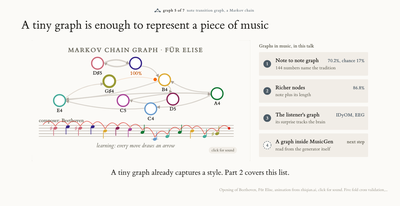
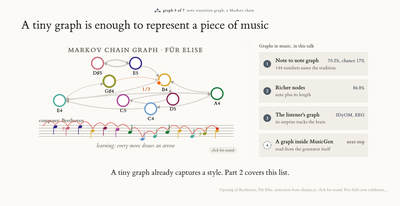
Slide 16: written as a subtraction, after minus before equals the delta graph
Claude-Session: https://claude.ai/code/session_01CwywQbHke1EKdwXqbCrAvs

Changed region(s): [[0.09, 0.5825, 0.6, 0.699], [0.36, 0.3786, 0.42, 0.4369], [0.33, 0.3204, 0.36, 0.3786]]

diff --git a/graph-inside/2026-11-19-cs-colloquium/index.html b/graph-inside/2026-11-19-cs-colloquium/index.html
@@ -1054,7 +1054,7 @@ else if(m==1){var d1=(i==FI.length-1)?2600:1500;if(now-last>d1){i=(i+1)%FI.lengt
 <section data-ch="1">
 <section data-ch="1">
   <h2>What is a delta graph?</h2><span class="graphtag"><svg viewBox="0 0 22 14"><line x1="3" y1="11" x2="11" y2="3" stroke="currentColor" stroke-width="1.3"/><line x1="11" y1="3" x2="19" y2="11" stroke="currentColor" stroke-width="1.3"/><line x1="3" y1="11" x2="19" y2="11" stroke="currentColor" stroke-width="1.3"/><circle cx="3" cy="11" r="2.4" fill="currentColor"/><circle cx="11" cy="3" r="2.4" fill="currentColor"/><circle cx="19" cy="11" r="2.4" fill="currentColor"/></svg><b>graph 4 of 7</b> delta graph, how the inside rewired</span><span class="status published">Published</span>
-  <svg viewBox="0 0 1180 462" style="width:100%;max-width:1160px;height:auto;max-height:462px;display:block;margin:0 auto"><defs><marker id="dga" viewBox="0 0 10 10" refX="8" refY="5" markerWidth="6" markerHeight="6" orient="auto-start-reverse"><path d="M0,0 L10,5 L0,10 z" fill="#5F5D50"/></marker><marker id="dgo" viewBox="0 0 10 10" refX="8" refY="5" markerWidth="6" markerHeight="6" orient="auto-start-reverse"><path d="M0,0 L10,5 L0,10 z" fill="#F76902"/></marker><marker id="dgt" viewBox="0 0 10 10" refX="8" refY="5" markerWidth="6" markerHeight="6" orient="auto-start-reverse"><path d="M0,0 L10,5 L0,10 z" fill="#4C5B66"/></marker><marker id="dgk" viewBox="0 0 10 10" refX="8" refY="5" markerWidth="6" markerHeight="6" orient="auto-start-reverse"><path d="M0,0 L10,5 L0,10 z" fill="#1F1E1B"/></marker><marker id="dgg" viewBox="0 0 10 10" refX="8" refY="5" markerWidth="6" markerHeight="6" orient="auto-start-reverse"><path d="M0,0 L10,5 L0,10 z" fill="#ACA39A"/></marker><radialGradient id="dggl"><stop offset="0" stop-color="#F76902" stop-opacity=".5"/><stop offset="1" stop-color="#F76902" stop-opacity="0"/></radialGradient><radialGradient id="dggt"><stop offset="0" stop-color="#4C5B66" stop-opacity=".45"/><stop offset="1" stop-color="#4C5B66" stop-opacity="0"/></radialGradient></defs><defs><marker id="axk" viewBox="0 0 10 10" refX="8" refY="5" markerWidth="5" markerHeight="5" orient="auto"><path d="M0,0 L10,5 L0,10 z" fill="#1F1E1B"/></marker></defs><text x="590" y="22" font-size="17.5" font-weight="400" fill="#1F1E1B" text-anchor="middle" data-keep="1">Same probe questions, before and after the edit. A node is a block (attention or MLP of a layer).</text><text x="590" y="44" font-size="17.5" font-weight="400" fill="#5F5D50" text-anchor="middle" data-keep="1">An edge: two blocks that rise and fall together across the questions, other blocks removed (partial correlation).</text><text x="128" y="259" font-size="15" font-weight="400" fill="#5F5D50" text-anchor="end" >layer 1</text><text x="128" y="223" font-size="15" font-weight="400" fill="#5F5D50" text-anchor="end" >layer 2</text><text x="128" y="187" font-size="15" font-weight="400" fill="#5F5D50" text-anchor="end" >layer 3</text><text x="128" y="151" font-size="15" font-weight="400" fill="#5F5D50" text-anchor="end" >layer 4</text><text x="128" y="115" font-size="15" font-weight="400" fill="#5F5D50" text-anchor="end" >layer 5</text><text x="128" y="79" font-size="15" font-weight="400" fill="#5F5D50" text-anchor="end" >layer 6</text><path d="M174,254 L266,254" stroke="#8F887E" stroke-width="1.8" fill="none" /><path d="M174,218 L266,218" stroke="#8F887E" stroke-width="1.8" fill="none" /><path d="M174,182 L266,182" stroke="#8F887E" stroke-width="1.8" fill="none" /><path d="M174,146 L266,146" stroke="#8F887E" stroke-width="1.8" fill="none" /><path d="M174,110 L266,110" stroke="#8F887E" stroke-width="1.8" fill="none" /><path d="M174,74 L266,74" stroke="#8F887E" stroke-width="1.8" fill="none" /><path d="M266,254 L174,218" stroke="#8F887E" stroke-width="1.8" fill="none" /><path d="M266,218 L174,182" stroke="#8F887E" stroke-width="1.8" fill="none" /><path d="M266,182 L174,146" stroke="#8F887E" stroke-width="1.8" fill="none" /><path d="M266,146 L174,110" stroke="#8F887E" stroke-width="1.8" fill="none" /><path d="M266,110 L174,74" stroke="#8F887E" stroke-width="1.8" fill="none" /><path d="M174,254 L174,218" stroke="#8F887E" stroke-width="1.8" fill="none" /><path d="M174,182 L174,146" stroke="#8F887E" stroke-width="1.8" fill="none" /><path d="M174,110 L174,74" stroke="#8F887E" stroke-width="1.8" fill="none" /><path d="M266,254 L266,218" stroke="#8F887E" stroke-width="1.8" fill="none" /><path d="M266,110 L266,74" stroke="#8F887E" stroke-width="1.8" fill="none" /><path d="M174,254 L266,182" stroke="#8F887E" stroke-width="1.8" fill="none" /><path d="M266,218 L174,146" stroke="#8F887E" stroke-width="1.8" fill="none" /><path d="M174,182 L266,110" stroke="#8F887E" stroke-width="1.8" fill="none" /><path d="M266,146 L174,74" stroke="#8F887E" stroke-width="1.8" fill="none" /><path d="M174,218 L266,110" stroke="#8F887E" stroke-width="1.8" fill="none" /><path d="M266,254 L174,146" stroke="#8F887E" stroke-width="1.8" fill="none" /><path d="M266,218 L174,182" stroke="#8F887E" stroke-width="1.8" fill="none" /><path d="M266,182 L174,74" stroke="#8F887E" stroke-width="1.8" fill="none" /><circle cx="174" cy="254" r="8" fill="#5F5D50" stroke="none" stroke-width="1.5" /><circle cx="266" cy="254" r="8" fill="#C45200" stroke="none" stroke-width="1.5" /><circle cx="174" cy="218" r="8" fill="#5F5D50" stroke="none" stroke-width="1.5" /><circle cx="266" cy="218" r="8" fill="#C45200" stroke="none" stroke-width="1.5" /><circle cx="174" cy="182" r="8" fill="#5F5D50" stroke="none" stroke-width="1.5" /><circle cx="266" cy="182" r="8" fill="#C45200" stroke="none" stroke-width="1.5" /><circle cx="174" cy="146" r="8" fill="#5F5D50" stroke="none" stroke-width="1.5" /><circle cx="266" cy="146" r="8" fill="#C45200" stroke="none" stroke-width="1.5" /><circle cx="174" cy="110" r="8" fill="#5F5D50" stroke="none" stroke-width="1.5" /><circle cx="266" cy="110" r="8" fill="#C45200" stroke="none" stroke-width="1.5" /><circle cx="174" cy="74" r="8" fill="#5F5D50" stroke="none" stroke-width="1.5" /><circle cx="266" cy="74" r="8" fill="#C45200" stroke="none" stroke-width="1.5" /><text x="220" y="286" font-size="17.5" font-weight="600" fill="#1F1E1B" text-anchor="middle" >before the edit</text><text x="352" y="160" font-size="21" font-weight="400" fill="#5F5D50" text-anchor="middle" >vs</text><path d="M434,254 L526,254" stroke="#8F887E" stroke-width="1.8" fill="none" /><path d="M434,218 L526,218" stroke="#8F887E" stroke-width="1.8" fill="none" /><path d="M434,182 L526,182" stroke="#8F887E" stroke-width="1.8" fill="none" /><path d="M434,146 L526,146" stroke="#8F887E" stroke-width="1.8" fill="none" /><path d="M434,110 L526,110" stroke="#8F887E" stroke-width="1.8" fill="none" /><path d="M434,74 L526,74" stroke="#8F887E" stroke-width="1.8" fill="none" /><path d="M526,254 L434,218" stroke="#8F887E" stroke-width="1.8" fill="none" /><path d="M526,182 L434,146" stroke="#8F887E" stroke-width="1.8" fill="none" /><path d="M526,146 L434,110" stroke="#8F887E" stroke-width="1.8" fill="none" /><path d="M526,110 L434,74" stroke="#8F887E" stroke-width="1.8" fill="none" /><path d="M434,254 L434,218" stroke="#8F887E" stroke-width="1.8" fill="none" /><path d="M434,182 L434,146" stroke="#8F887E" stroke-width="1.8" fill="none" /><path d="M434,110 L434,74" stroke="#8F887E" stroke-width="1.8" fill="none" /><path d="M526,254 L526,218" stroke="#8F887E" stroke-width="1.8" fill="none" /><path d="M526,110 L526,74" stroke="#8F887E" stroke-width="1.8" fill="none" /><path d="M434,254 L526,182" stroke="#8F887E" stroke-width="1.8" fill="none" /><path d="M526,218 L434,146" stroke="#8F887E" stroke-width="1.8" fill="none" /><path d="M434,218 L526,110" stroke="#8F887E" stroke-width="1.8" fill="none" /><path d="M526,254 L434,146" stroke="#8F887E" stroke-width="1.8" fill="none" /><path d="M526,182 L434,74" stroke="#8F887E" stroke-width="1.8" fill="none" /><path d="M434,182 L526,110" stroke="#5F5D50" stroke-width="2.2" fill="none" stroke-dasharray="5 4"/><path d="M526,146 L434,74" stroke="#5F5D50" stroke-width="2.2" fill="none" stroke-dasharray="5 4"/><path d="M526,218 L434,182" stroke="#5F5D50" stroke-width="2.2" fill="none" stroke-dasharray="5 4"/><path d="M526,182 L526,146" stroke="#F76902" stroke-width="2.5" fill="none" /><path d="M526,146 L526,110" stroke="#F76902" stroke-width="2.5" fill="none" /><path d="M434,218 L526,146" stroke="#F76902" stroke-width="2.5" fill="none" /><circle cx="434" cy="254" r="8" fill="#5F5D50" stroke="none" stroke-width="1.5" /><circle cx="526" cy="254" r="8" fill="#C45200" stroke="none" stroke-width="1.5" /><circle cx="434" cy="218" r="8" fill="#5F5D50" stroke="none" stroke-width="1.5" /><circle cx="526" cy="218" r="8" fill="#C45200" stroke="none" stroke-width="1.5" /><circle cx="434" cy="182" r="8" fill="#5F5D50" stroke="none" stroke-width="1.5" /><circle cx="526" cy="182" r="8" fill="#C45200" stroke="none" stroke-width="1.5" /><circle cx="434" cy="146" r="8" fill="#5F5D50" stroke="none" stroke-width="1.5" /><circle cx="526" cy="146" r="8" fill="#C45200" stroke="none" stroke-width="1.5" /><circle cx="434" cy="110" r="8" fill="#5F5D50" stroke="none" stroke-width="1.5" /><circle cx="526" cy="110" r="8" fill="#C45200" stroke="none" stroke-width="1.5" /><circle cx="434" cy="74" r="8" fill="#5F5D50" stroke="none" stroke-width="1.5" /><circle cx="526" cy="74" r="8" fill="#C45200" stroke="none" stroke-width="1.5" /><text x="480" y="286" font-size="17.5" font-weight="600" fill="#1F1E1B" text-anchor="middle" >after the edit</text><text x="612" y="160" font-size="26" font-weight="400" fill="#5F5D50" text-anchor="middle" >=</text><g class="fragment" data-fragment-index="1"><path d="M790,182 L790,146" stroke="#F76902" stroke-width="2.5" fill="none" /><path d="M790,146 L790,110" stroke="#F76902" stroke-width="2.5" fill="none" /><path d="M698,218 L790,146" stroke="#F76902" stroke-width="2.5" fill="none" /><path d="M698,182 L790,110" stroke="#5F5D50" stroke-width="2.2" fill="none" stroke-dasharray="5 4"/><path d="M790,146 L698,74" stroke="#5F5D50" stroke-width="2.2" fill="none" stroke-dasharray="5 4"/><path d="M790,218 L698,182" stroke="#5F5D50" stroke-width="2.2" fill="none" stroke-dasharray="5 4"/><circle cx="698" cy="254" r="8" fill="#5F5D50" stroke="none" stroke-width="1.5" /><circle cx="790" cy="254" r="8" fill="#C45200" stroke="none" stroke-width="1.5" /><circle cx="698" cy="218" r="8" fill="#5F5D50" stroke="none" stroke-width="1.5" /><circle cx="790" cy="218" r="8" fill="#C45200" stroke="none" stroke-width="1.5" /><circle cx="698" cy="182" r="8" fill="#5F5D50" stroke="none" stroke-width="1.5" /><circle cx="790" cy="182" r="8" fill="#C45200" stroke="none" stroke-width="1.5" /><circle cx="698" cy="146" r="8" fill="#5F5D50" stroke="none" stroke-width="1.5" /><circle cx="790" cy="146" r="8" fill="#C45200" stroke="none" stroke-width="1.5" /><circle cx="698" cy="110" r="8" fill="#5F5D50" stroke="none" stroke-width="1.5" /><circle cx="790" cy="110" r="8" fill="#C45200" stroke="none" stroke-width="1.5" /><circle cx="698" cy="74" r="8" fill="#5F5D50" stroke="none" stroke-width="1.5" /><circle cx="790" cy="74" r="8" fill="#C45200" stroke="none" stroke-width="1.5" /><text x="744" y="286" font-size="17.5" font-weight="600" fill="#C45200" text-anchor="middle" >delta graph</text><text x="744" y="304" font-size="15" font-weight="400" fill="#5F5D50" text-anchor="middle" >after minus before</text><path d="M880,96 h34" stroke="#F76902" stroke-width="2.5" fill="none" /><text x="922" y="101" font-size="15.5" font-weight="400" fill="#1F1E1B" text-anchor="start" >stronger after the edit</text><path d="M880,126 h34" stroke="#5F5D50" stroke-width="2.2" fill="none" stroke-dasharray="5 4"/><text x="922" y="131" font-size="15.5" font-weight="400" fill="#1F1E1B" text-anchor="start" >weaker after the edit</text><circle cx="889" cy="160" r="7" fill="#5F5D50" stroke="none" stroke-width="1.5" /><text x="902" y="165" font-size="15.5" font-weight="400" fill="#1F1E1B" text-anchor="start" >attention</text><circle cx="985" cy="160" r="7" fill="#C45200" stroke="none" stroke-width="1.5" /><text x="998" y="165" font-size="15.5" font-weight="400" fill="#1F1E1B" text-anchor="start" >MLP</text></g><g class="fragment" data-fragment-index="2"><rect x="40" y="316" width="530" height="140" rx="4" fill="#F4F1EC" stroke="none" stroke-width="0" /><text x="60" y="342" font-size="18.5" font-weight="600" fill="#1F1E1B" text-anchor="start" >Where, and how much</text><text x="60" y="366" font-size="16" font-weight="400" fill="#5F5D50" text-anchor="start" >change at a block = sum of its edge changes</text><text x="60" y="386" font-size="16" font-weight="400" fill="#5F5D50" text-anchor="start" >total change, which layers, how concentrated</text><rect x="372" y="438.0" width="24" height="8.0" rx="2" fill="#ACA39A" stroke="none" stroke-width="0" /><rect x="402" y="430.0" width="24" height="16.0" rx="2" fill="#ACA39A" stroke="none" stroke-width="0" /><rect x="432" y="398.0" width="24" height="48.0" rx="2" fill="#ACA39A" stroke="none" stroke-width="0" /><rect x="462" y="391.6" width="24" height="54.400000000000006" rx="2" fill="#C45200" stroke="none" stroke-width="0" /><rect x="492" y="420.4" width="24" height="25.6" rx="2" fill="#ACA39A" stroke="none" stroke-width="0" /><rect x="522" y="439.6" width="24" height="6.4" rx="2" fill="#ACA39A" stroke="none" stroke-width="0" /><text x="456" y="342" font-size="15" font-weight="400" fill="#5F5D50" text-anchor="middle" >change per layer</text><rect x="610" y="316" width="530" height="140" rx="4" fill="#F4F1EC" stroke="none" stroke-width="0" /><text x="630" y="342" font-size="18.5" font-weight="600" fill="#1F1E1B" text-anchor="start" >Smooth, or sharp (spectral)</text><text x="630" y="366" font-size="16" font-weight="400" fill="#5F5D50" text-anchor="start" >the before graph gives the shape: its Laplacian</text><text x="630" y="386" font-size="16" font-weight="400" fill="#5F5D50" text-anchor="start" >project the change onto it (a graph Fourier transform)</text><path d="M640,414 h120" stroke="#8F887E" stroke-width="1.6" fill="none" /><circle cx="640" cy="414" r="8" fill="rgba(196,82,0,0.15)" stroke="none" stroke-width="1.5" stroke="#8F887E" stroke-width="1"/><circle cx="670" cy="414" r="8" fill="rgba(196,82,0,0.35)" stroke="none" stroke-width="1.5" stroke="#8F887E" stroke-width="1"/><circle cx="700" cy="414" r="8" fill="rgba(196,82,0,0.55)" stroke="none" stroke-width="1.5" stroke="#8F887E" stroke-width="1"/><circle cx="730" cy="414" r="8" fill="rgba(196,82,0,0.75)" stroke="none" stroke-width="1.5" stroke="#8F887E" stroke-width="1"/><circle cx="760" cy="414" r="8" fill="rgba(196,82,0,0.95)" stroke="none" stroke-width="1.5" stroke="#8F887E" stroke-width="1"/><text x="800" y="419" font-size="15.5" font-weight="400" fill="#1F1E1B" text-anchor="start" >low: change spreads along the wiring</text><path d="M640,442 h120" stroke="#8F887E" stroke-width="1.6" fill="none" /><circle cx="640" cy="442" r="8" fill="rgba(196,82,0,0.95)" stroke="none" stroke-width="1.5" stroke="#8F887E" stroke-width="1"/><circle cx="670" cy="442" r="8" fill="rgba(196,82,0,0.1)" stroke="none" stroke-width="1.5" stroke="#8F887E" stroke-width="1"/><circle cx="700" cy="442" r="8" fill="rgba(196,82,0,0.95)" stroke="none" stroke-width="1.5" stroke="#8F887E" stroke-width="1"/><circle cx="730" cy="442" r="8" fill="rgba(196,82,0,0.1)" stroke="none" stroke-width="1.5" stroke="#8F887E" stroke-width="1"/><circle cx="760" cy="442" r="8" fill="rgba(196,82,0,0.95)" stroke="none" stroke-width="1.5" stroke="#8F887E" stroke-width="1"/><text x="800" y="447" font-size="15.5" font-weight="400" fill="#1F1E1B" text-anchor="start" >high: neighbors disagree, a sharp patch</text></g></svg>
+  <svg viewBox="0 0 1180 462" style="width:100%;max-width:1160px;height:auto;max-height:462px;display:block;margin:0 auto"><defs><marker id="dga" viewBox="0 0 10 10" refX="8" refY="5" markerWidth="6" markerHeight="6" orient="auto-start-reverse"><path d="M0,0 L10,5 L0,10 z" fill="#5F5D50"/></marker><marker id="dgo" viewBox="0 0 10 10" refX="8" refY="5" markerWidth="6" markerHeight="6" orient="auto-start-reverse"><path d="M0,0 L10,5 L0,10 z" fill="#F76902"/></marker><marker id="dgt" viewBox="0 0 10 10" refX="8" refY="5" markerWidth="6" markerHeight="6" orient="auto-start-reverse"><path d="M0,0 L10,5 L0,10 z" fill="#4C5B66"/></marker><marker id="dgk" viewBox="0 0 10 10" refX="8" refY="5" markerWidth="6" markerHeight="6" orient="auto-start-reverse"><path d="M0,0 L10,5 L0,10 z" fill="#1F1E1B"/></marker><marker id="dgg" viewBox="0 0 10 10" refX="8" refY="5" markerWidth="6" markerHeight="6" orient="auto-start-reverse"><path d="M0,0 L10,5 L0,10 z" fill="#ACA39A"/></marker><radialGradient id="dggl"><stop offset="0" stop-color="#F76902" stop-opacity=".5"/><stop offset="1" stop-color="#F76902" stop-opacity="0"/></radialGradient><radialGradient id="dggt"><stop offset="0" stop-color="#4C5B66" stop-opacity=".45"/><stop offset="1" stop-color="#4C5B66" stop-opacity="0"/></radialGradient></defs><defs><marker id="axk" viewBox="0 0 10 10" refX="8" refY="5" markerWidth="5" markerHeight="5" orient="auto"><path d="M0,0 L10,5 L0,10 z" fill="#1F1E1B"/></marker></defs><text x="590" y="22" font-size="17.5" font-weight="400" fill="#1F1E1B" text-anchor="middle" data-keep="1">Same probe questions, before and after the edit. A node is a block (attention or MLP of a layer).</text><text x="590" y="44" font-size="17.5" font-weight="400" fill="#5F5D50" text-anchor="middle" data-keep="1">An edge: two blocks that rise and fall together across the questions, other blocks removed (partial correlation).</text><text x="128" y="259" font-size="15" font-weight="400" fill="#5F5D50" text-anchor="end" >layer 1</text><text x="128" y="223" font-size="15" font-weight="400" fill="#5F5D50" text-anchor="end" >layer 2</text><text x="128" y="187" font-size="15" font-weight="400" fill="#5F5D50" text-anchor="end" >layer 3</text><text x="128" y="151" font-size="15" font-weight="400" fill="#5F5D50" text-anchor="end" >layer 4</text><text x="128" y="115" font-size="15" font-weight="400" fill="#5F5D50" text-anchor="end" >layer 5</text><text x="128" y="79" font-size="15" font-weight="400" fill="#5F5D50" text-anchor="end" >layer 6</text><path d="M174,254 L266,254" stroke="#8F887E" stroke-width="1.8" fill="none" /><path d="M174,218 L266,218" stroke="#8F887E" stroke-width="1.8" fill="none" /><path d="M174,182 L266,182" stroke="#8F887E" stroke-width="1.8" fill="none" /><path d="M174,146 L266,146" stroke="#8F887E" stroke-width="1.8" fill="none" /><path d="M174,110 L266,110" stroke="#8F887E" stroke-width="1.8" fill="none" /><path d="M174,74 L266,74" stroke="#8F887E" stroke-width="1.8" fill="none" /><path d="M266,254 L174,218" stroke="#8F887E" stroke-width="1.8" fill="none" /><path d="M266,182 L174,146" stroke="#8F887E" stroke-width="1.8" fill="none" /><path d="M266,146 L174,110" stroke="#8F887E" stroke-width="1.8" fill="none" /><path d="M266,110 L174,74" stroke="#8F887E" stroke-width="1.8" fill="none" /><path d="M174,254 L174,218" stroke="#8F887E" stroke-width="1.8" fill="none" /><path d="M174,182 L174,146" stroke="#8F887E" stroke-width="1.8" fill="none" /><path d="M174,110 L174,74" stroke="#8F887E" stroke-width="1.8" fill="none" /><path d="M266,254 L266,218" stroke="#8F887E" stroke-width="1.8" fill="none" /><path d="M266,110 L266,74" stroke="#8F887E" stroke-width="1.8" fill="none" /><path d="M174,254 L266,182" stroke="#8F887E" stroke-width="1.8" fill="none" /><path d="M266,218 L174,146" stroke="#8F887E" stroke-width="1.8" fill="none" /><path d="M174,218 L266,110" stroke="#8F887E" stroke-width="1.8" fill="none" /><path d="M266,254 L174,146" stroke="#8F887E" stroke-width="1.8" fill="none" /><path d="M266,182 L174,74" stroke="#8F887E" stroke-width="1.8" fill="none" /><path d="M174,182 L266,110" stroke="#5F5D50" stroke-width="2.2" fill="none" stroke-dasharray="5 4"/><path d="M266,146 L174,74" stroke="#5F5D50" stroke-width="2.2" fill="none" stroke-dasharray="5 4"/><path d="M266,218 L174,182" stroke="#5F5D50" stroke-width="2.2" fill="none" stroke-dasharray="5 4"/><path d="M266,182 L266,146" stroke="#F76902" stroke-width="2.5" fill="none" /><path d="M266,146 L266,110" stroke="#F76902" stroke-width="2.5" fill="none" /><path d="M174,218 L266,146" stroke="#F76902" stroke-width="2.5" fill="none" /><circle cx="174" cy="254" r="8" fill="#5F5D50" stroke="none" stroke-width="1.5" /><circle cx="266" cy="254" r="8" fill="#C45200" stroke="none" stroke-width="1.5" /><circle cx="174" cy="218" r="8" fill="#5F5D50" stroke="none" stroke-width="1.5" /><circle cx="266" cy="218" r="8" fill="#C45200" stroke="none" stroke-width="1.5" /><circle cx="174" cy="182" r="8" fill="#5F5D50" stroke="none" stroke-width="1.5" /><circle cx="266" cy="182" r="8" fill="#C45200" stroke="none" stroke-width="1.5" /><circle cx="174" cy="146" r="8" fill="#5F5D50" stroke="none" stroke-width="1.5" /><circle cx="266" cy="146" r="8" fill="#C45200" stroke="none" stroke-width="1.5" /><circle cx="174" cy="110" r="8" fill="#5F5D50" stroke="none" stroke-width="1.5" /><circle cx="266" cy="110" r="8" fill="#C45200" stroke="none" stroke-width="1.5" /><circle cx="174" cy="74" r="8" fill="#5F5D50" stroke="none" stroke-width="1.5" /><circle cx="266" cy="74" r="8" fill="#C45200" stroke="none" stroke-width="1.5" /><text x="220" y="286" font-size="17.5" font-weight="600" fill="#1F1E1B" text-anchor="middle" >after the edit</text><text x="352" y="172" font-size="34" font-weight="400" fill="#1F1E1B" text-anchor="middle" >−</text><path d="M434,254 L526,254" stroke="#8F887E" stroke-width="1.8" fill="none" /><path d="M434,218 L526,218" stroke="#8F887E" stroke-width="1.8" fill="none" /><path d="M434,182 L526,182" stroke="#8F887E" stroke-width="1.8" fill="none" /><path d="M434,146 L526,146" stroke="#8F887E" stroke-width="1.8" fill="none" /><path d="M434,110 L526,110" stroke="#8F887E" stroke-width="1.8" fill="none" /><path d="M434,74 L526,74" stroke="#8F887E" stroke-width="1.8" fill="none" /><path d="M526,254 L434,218" stroke="#8F887E" stroke-width="1.8" fill="none" /><path d="M526,218 L434,182" stroke="#8F887E" stroke-width="1.8" fill="none" /><path d="M526,182 L434,146" stroke="#8F887E" stroke-width="1.8" fill="none" /><path d="M526,146 L434,110" stroke="#8F887E" stroke-width="1.8" fill="none" /><path d="M526,110 L434,74" stroke="#8F887E" stroke-width="1.8" fill="none" /><path d="M434,254 L434,218" stroke="#8F887E" stroke-width="1.8" fill="none" /><path d="M434,182 L434,146" stroke="#8F887E" stroke-width="1.8" fill="none" /><path d="M434,110 L434,74" stroke="#8F887E" stroke-width="1.8" fill="none" /><path d="M526,254 L526,218" stroke="#8F887E" stroke-width="1.8" fill="none" /><path d="M526,110 L526,74" stroke="#8F887E" stroke-width="1.8" fill="none" /><path d="M434,254 L526,182" stroke="#8F887E" stroke-width="1.8" fill="none" /><path d="M526,218 L434,146" stroke="#8F887E" stroke-width="1.8" fill="none" /><path d="M434,182 L526,110" stroke="#8F887E" stroke-width="1.8" fill="none" /><path d="M526,146 L434,74" stroke="#8F887E" stroke-width="1.8" fill="none" /><path d="M434,218 L526,110" stroke="#8F887E" stroke-width="1.8" fill="none" /><path d="M526,254 L434,146" stroke="#8F887E" stroke-width="1.8" fill="none" /><path d="M526,218 L434,182" stroke="#8F887E" stroke-width="1.8" fill="none" /><path d="M526,182 L434,74" stroke="#8F887E" stroke-width="1.8" fill="none" /><circle cx="434" cy="254" r="8" fill="#5F5D50" stroke="none" stroke-width="1.5" /><circle cx="526" cy="254" r="8" fill="#C45200" stroke="none" stroke-width="1.5" /><circle cx="434" cy="218" r="8" fill="#5F5D50" stroke="none" stroke-width="1.5" /><circle cx="526" cy="218" r="8" fill="#C45200" stroke="none" stroke-width="1.5" /><circle cx="434" cy="182" r="8" fill="#5F5D50" stroke="none" stroke-width="1.5" /><circle cx="526" cy="182" r="8" fill="#C45200" stroke="none" stroke-width="1.5" /><circle cx="434" cy="146" r="8" fill="#5F5D50" stroke="none" stroke-width="1.5" /><circle cx="526" cy="146" r="8" fill="#C45200" stroke="none" stroke-width="1.5" /><circle cx="434" cy="110" r="8" fill="#5F5D50" stroke="none" stroke-width="1.5" /><circle cx="526" cy="110" r="8" fill="#C45200" stroke="none" stroke-width="1.5" /><circle cx="434" cy="74" r="8" fill="#5F5D50" stroke="none" stroke-width="1.5" /><circle cx="526" cy="74" r="8" fill="#C45200" stroke="none" stroke-width="1.5" /><text x="480" y="286" font-size="17.5" font-weight="600" fill="#1F1E1B" text-anchor="middle" >before the edit</text><text x="612" y="172" font-size="34" font-weight="400" fill="#1F1E1B" text-anchor="middle" >=</text><g class="fragment" data-fragment-index="1"><path d="M790,182 L790,146" stroke="#F76902" stroke-width="2.5" fill="none" /><path d="M790,146 L790,110" stroke="#F76902" stroke-width="2.5" fill="none" /><path d="M698,218 L790,146" stroke="#F76902" stroke-width="2.5" fill="none" /><path d="M698,182 L790,110" stroke="#5F5D50" stroke-width="2.2" fill="none" stroke-dasharray="5 4"/><path d="M790,146 L698,74" stroke="#5F5D50" stroke-width="2.2" fill="none" stroke-dasharray="5 4"/><path d="M790,218 L698,182" stroke="#5F5D50" stroke-width="2.2" fill="none" stroke-dasharray="5 4"/><circle cx="698" cy="254" r="8" fill="#5F5D50" stroke="none" stroke-width="1.5" /><circle cx="790" cy="254" r="8" fill="#C45200" stroke="none" stroke-width="1.5" /><circle cx="698" cy="218" r="8" fill="#5F5D50" stroke="none" stroke-width="1.5" /><circle cx="790" cy="218" r="8" fill="#C45200" stroke="none" stroke-width="1.5" /><circle cx="698" cy="182" r="8" fill="#5F5D50" stroke="none" stroke-width="1.5" /><circle cx="790" cy="182" r="8" fill="#C45200" stroke="none" stroke-width="1.5" /><circle cx="698" cy="146" r="8" fill="#5F5D50" stroke="none" stroke-width="1.5" /><circle cx="790" cy="146" r="8" fill="#C45200" stroke="none" stroke-width="1.5" /><circle cx="698" cy="110" r="8" fill="#5F5D50" stroke="none" stroke-width="1.5" /><circle cx="790" cy="110" r="8" fill="#C45200" stroke="none" stroke-width="1.5" /><circle cx="698" cy="74" r="8" fill="#5F5D50" stroke="none" stroke-width="1.5" /><circle cx="790" cy="74" r="8" fill="#C45200" stroke="none" stroke-width="1.5" /><text x="744" y="286" font-size="17.5" font-weight="600" fill="#C45200" text-anchor="middle" >delta graph</text><text x="744" y="304" font-size="15" font-weight="400" fill="#5F5D50" text-anchor="middle" >after minus before</text><path d="M880,96 h34" stroke="#F76902" stroke-width="2.5" fill="none" /><text x="922" y="101" font-size="15.5" font-weight="400" fill="#1F1E1B" text-anchor="start" >stronger after the edit</text><path d="M880,126 h34" stroke="#5F5D50" stroke-width="2.2" fill="none" stroke-dasharray="5 4"/><text x="922" y="131" font-size="15.5" font-weight="400" fill="#1F1E1B" text-anchor="start" >weaker after the edit</text><circle cx="889" cy="160" r="7" fill="#5F5D50" stroke="none" stroke-width="1.5" /><text x="902" y="165" font-size="15.5" font-weight="400" fill="#1F1E1B" text-anchor="start" >attention</text><circle cx="985" cy="160" r="7" fill="#C45200" stroke="none" stroke-width="1.5" /><text x="998" y="165" font-size="15.5" font-weight="400" fill="#1F1E1B" text-anchor="start" >MLP</text></g><g class="fragment" data-fragment-index="2"><rect x="40" y="316" width="530" height="140" rx="4" fill="#F4F1EC" stroke="none" stroke-width="0" /><text x="60" y="342" font-size="18.5" font-weight="600" fill="#1F1E1B" text-anchor="start" >Where, and how much</text><text x="60" y="366" font-size="16" font-weight="400" fill="#5F5D50" text-anchor="start" >change at a block = sum of its edge changes</text><text x="60" y="386" font-size="16" font-weight="400" fill="#5F5D50" text-anchor="start" >total change, which layers, how concentrated</text><rect x="372" y="438.0" width="24" height="8.0" rx="2" fill="#ACA39A" stroke="none" stroke-width="0" /><rect x="402" y="430.0" width="24" height="16.0" rx="2" fill="#ACA39A" stroke="none" stroke-width="0" /><rect x="432" y="398.0" width="24" height="48.0" rx="2" fill="#ACA39A" stroke="none" stroke-width="0" /><rect x="462" y="391.6" width="24" height="54.400000000000006" rx="2" fill="#C45200" stroke="none" stroke-width="0" /><rect x="492" y="420.4" width="24" height="25.6" rx="2" fill="#ACA39A" stroke="none" stroke-width="0" /><rect x="522" y="439.6" width="24" height="6.4" rx="2" fill="#ACA39A" stroke="none" stroke-width="0" /><text x="456" y="342" font-size="15" font-weight="400" fill="#5F5D50" text-anchor="middle" >change per layer</text><rect x="610" y="316" width="530" height="140" rx="4" fill="#F4F1EC" stroke="none" stroke-width="0" /><text x="630" y="342" font-size="18.5" font-weight="600" fill="#1F1E1B" text-anchor="start" >Smooth, or sharp (spectral)</text><text x="630" y="366" font-size="16" font-weight="400" fill="#5F5D50" text-anchor="start" >the before graph gives the shape: its Laplacian</text><text x="630" y="386" font-size="16" font-weight="400" fill="#5F5D50" text-anchor="start" >project the change onto it (a graph Fourier transform)</text><path d="M640,414 h120" stroke="#8F887E" stroke-width="1.6" fill="none" /><circle cx="640" cy="414" r="8" fill="rgba(196,82,0,0.15)" stroke="none" stroke-width="1.5" stroke="#8F887E" stroke-width="1"/><circle cx="670" cy="414" r="8" fill="rgba(196,82,0,0.35)" stroke="none" stroke-width="1.5" stroke="#8F887E" stroke-width="1"/><circle cx="700" cy="414" r="8" fill="rgba(196,82,0,0.55)" stroke="none" stroke-width="1.5" stroke="#8F887E" stroke-width="1"/><circle cx="730" cy="414" r="8" fill="rgba(196,82,0,0.75)" stroke="none" stroke-width="1.5" stroke="#8F887E" stroke-width="1"/><circle cx="760" cy="414" r="8" fill="rgba(196,82,0,0.95)" stroke="none" stroke-width="1.5" stroke="#8F887E" stroke-width="1"/><text x="800" y="419" font-size="15.5" font-weight="400" fill="#1F1E1B" text-anchor="start" >low: change spreads along the wiring</text><path d="M640,442 h120" stroke="#8F887E" stroke-width="1.6" fill="none" /><circle cx="640" cy="442" r="8" fill="rgba(196,82,0,0.95)" stroke="none" stroke-width="1.5" stroke="#8F887E" stroke-width="1"/><circle cx="670" cy="442" r="8" fill="rgba(196,82,0,0.1)" stroke="none" stroke-width="1.5" stroke="#8F887E" stroke-width="1"/><circle cx="700" cy="442" r="8" fill="rgba(196,82,0,0.95)" stroke="none" stroke-width="1.5" stroke="#8F887E" stroke-width="1"/><circle cx="730" cy="442" r="8" fill="rgba(196,82,0,0.1)" stroke="none" stroke-width="1.5" stroke="#8F887E" stroke-width="1"/><circle cx="760" cy="442" r="8" fill="rgba(196,82,0,0.95)" stroke="none" stroke-width="1.5" stroke="#8F887E" stroke-width="1"/><text x="800" y="447" font-size="15.5" font-weight="400" fill="#1F1E1B" text-anchor="start" >high: neighbors disagree, a sharp patch</text></g></svg>
   <p class="fragment" data-fragment-index="3" style="text-align:center;margin:.2em 1.1em 0"><span style="display:inline-block;background:#FDEFE3;border-left:7px solid #F76902;border-radius:3px;padding:.32em 1em;font-family:et-book,Georgia,serif;font-size:.84em;color:#1F1E1B;line-height:1.35">The delta graph is the edit's <b style="color:#C45200;font-weight:700">fingerprint</b>: where the wiring changed, and how sharply.</span></p>
   <div class="ref"><a href="https://scholar.google.com/scholar?q=Benbrahim+et+al.%2C+Delta-Graph+Signatures+for+Post-Edit+Risk+Screening%2C+SDM+2026%2C+Section+4" target="_blank" rel="noopener" title="Benbrahim et al., Delta-Graph Signatures for Post-Edit Risk Screening, SDM 2026, Section 4">Benbrahim et al., Delta-Graph Signatures for Post-Edit Risk Screening, SDM 2026, Section 4</a></div>
   <aside class="notes">One idea on this slide. We ask the model the same probe questions before and after the edit, questions kept apart from the ones used to score the edit. A node is a block: the attention block or the MLP block of one layer, so two nodes per layer. For each question we record how active each block is. Two blocks get an edge when they rise and fall together across the questions, after removing what the other blocks explain, a partial correlation. That gives one graph before the edit and one after. Click: subtract, after minus before. That is the delta graph: which connections got stronger, which got weaker. Click: how we turn it into a few numbers. Left, where and how much: the change at each block is the sum of the changes on its edges, then the total, which layers, and how concentrated it is. Right, the spectral part. We take the graph from before the edit as the shape and compute its Laplacian. Its eigenvectors are like waves on that graph, slow ones and fast ones. We project the change at each block onto them, a graph Fourier transform. If the energy is in the slow waves, the change spreads smoothly along the wiring. If it is in the fast waves, connected blocks disagree, a sharp local patch. We keep the share of energy in low, middle and high bands, plus the spectral entropy and the Dirichlet energy. All these numbers go into a small logistic model that gives a risk score. The paper is careful: this is not a claim about a causal mechanism, it is a summary of how broadly or sharply the edit perturbs the model. Bridge out: Nearest 2026 cousin, if asked: Circuit-Diff (Friedman and Song, arXiv 2609.23892, Sep 2026) also compares attribution graphs before and after a factual edit, but to label features, not to rank which edits went wrong. If asked how a partial correlation over 64 blocks is estimated from 12 prompts: it is not well posed alone, ridge with one fixed lambda shapes the graph, which is why the paper leans on held out evidence. Hard question to expect: is the delta graph real, or an artifact of the 12 probe prompts? Three answers from the paper. The probe prompts are disjoint from the prompts that define failure. Trained on 200 facts and tested on 500 new ones, the AUC holds at 0.840 to 0.862. Rerun the 50 riskiest edits from scratch and only 2 of 50 flip. Bridge: does it catch more bad edits? Results next.</aside>

diff --git a/graph-inside/2026-11-19-cs-colloquium/src/talk.py b/graph-inside/2026-11-19-cs-colloquium/src/talk.py
@@ -2603,8 +2603,8 @@ aft = ([(a, b, '#8F887E', 1.8, '') for a, b in E_BEFORE if (a, b) not in E_DOWN]
 dlt = [(a, b, '#F76902', 3.2, '') for a, b in E_UP] + [(a, b, '#4C5B66', 2.2, '5 4') for a, b in E_DOWN]
 for r in range(6):
     g += T(128, 254 - r * 36 + 5, f'layer {r + 1}', 13, 400, MUT, 'end')
-g += _dgdraw(220, bef, 'before the edit', INK) + T(352, 160, 'vs', 20, 400, MUT, 'middle') + _dgdraw(480, aft, 'after the edit', INK)
-g += T(612, 160, '=', 26, 400, MUT, 'middle')
+g += _dgdraw(220, aft, 'after the edit', INK) + T(352, 172, '−', 34, 400, INK, 'middle') + _dgdraw(480, bef, 'before the edit', INK)
+g += T(612, 172, '=', 34, 400, INK, 'middle')
 g += F(1, _dgdraw(744, dlt, 'delta graph', '#C45200') + T(744, 304, 'after minus before', 13, 400, MUT, 'middle')
        + P('M880,96 h34', '#F76902', 3.2) + T(922, 101, 'stronger after the edit', 13.5, 400, INK)
        + P('M880,126 h34', '#4C5B66', 2.2, extra='stroke-dasharray="5 4"') + T(922, 131, 'weaker after the edit', 13.5, 400, INK)

diff --git a/graph-inside/2026-11-19-cs-colloquium/docs/storyline-zh.md b/graph-inside/2026-11-19-cs-colloquium/docs/storyline-zh.md
@@ -95,7 +95,7 @@
 口头补一句原因："An editor looks at one fact, not at the knowledge graph that fact sits in." 这句引出 delta graph。
 **15. Every surgery: the exam passes, the inside tells another story**（90）四行表格，对应第 11 到 14 页。合并：两门技能考试都过，失对齐也一起带进来。Steering：对拒绝很干净，别的行为最多一半输入被推反。Removing（去毒和遗忘）：毒性 0.45 降到 0.21，脏话神经元还在，只是绕开了。Editing（我们的主题）：新事实通过，旧路径还在。点一下：考试只看答案，失败是没人看的内部变化。再点：结论框，我们需要比较改动前后的内部，把有风险的标出来。
 说："Four surgeries, one pattern: the exam passes, and the inside tells another story."
-**16. What is a delta graph?**（120，graph 4）只讲一个概念。同一组探针问题，编辑前问一遍，编辑后问一遍。节点是每层的 attention 块和 MLP 块（每层两个）。两个块在这些问题上一起升一起降，就连一条边（partial correlation，去掉其他块的影响）。左边编辑前的图，中间编辑后的图（6 层，每层两个节点，含跨层连接）。点一下：后减前，就是 delta graph，橙色实线是变强的连接，虚线是变弱的。再点：怎么把它变成几个数。左框：在哪、多少（每个块的变化量等于它所有边的变化之和，再看总量、哪几层、集中不集中）。右框：平滑还是尖锐（spectral）：用编辑前的图当形状，算它的 Laplacian，把每个块的变化量投到 Laplacian 的特征向量上（图傅里叶变换）。能量在低频，说明变化沿着连线平滑地散开。能量在高频，说明相连的块变化不一致，是局部的尖锐补丁。这些数进一个小的 logistic 模型，得到风险分。再点：结论框，delta graph 是这次编辑的指纹。旧版完整图在下箭头里。
+**16. What is a delta graph?**（120，graph 4）只讲一个概念。同一组探针问题，编辑前问一遍，编辑后问一遍。节点是每层的 attention 块和 MLP 块（每层两个）。两个块在这些问题上一起升一起降，就连一条边（partial correlation，去掉其他块的影响）。左边编辑后的图，减去中间编辑前的图（6 层，每层两个节点，含跨层连接）。点一下：后减前，就是 delta graph，橙色实线是变强的连接，虚线是变弱的。再点：怎么把它变成几个数。左框：在哪、多少（每个块的变化量等于它所有边的变化之和，再看总量、哪几层、集中不集中）。右框：平滑还是尖锐（spectral）：用编辑前的图当形状，算它的 Laplacian，把每个块的变化量投到 Laplacian 的特征向量上（图傅里叶变换）。能量在低频，说明变化沿着连线平滑地散开。能量在高频，说明相连的块变化不一致，是局部的尖锐补丁。这些数进一个小的 logistic 模型，得到风险分。再点：结论框，delta graph 是这次编辑的指纹。旧版完整图在下箭头里。
 说："Before, after, subtract. The difference is a graph: the edit's fingerprint inside the model."
 **17. Results: same checking budget, more bad edits caught**（120）用十月 PhD talk 的版本：100 个满分编辑，其中 56 个其实是坏的，只能查 20 个。三排小卡片，红叉是查到的坏编辑，灰勾是白查了。随机挑查到约 11 个，按编辑器和模型挑约 14 个，按 delta graph 挑约 17 个。下面两个 AUC：0.703 到 0.797，第二个数据集 0.853 到 0.904。
 说："Same 20 checks: 11, 14, 17. The extra catches come only from how the inside changed."
